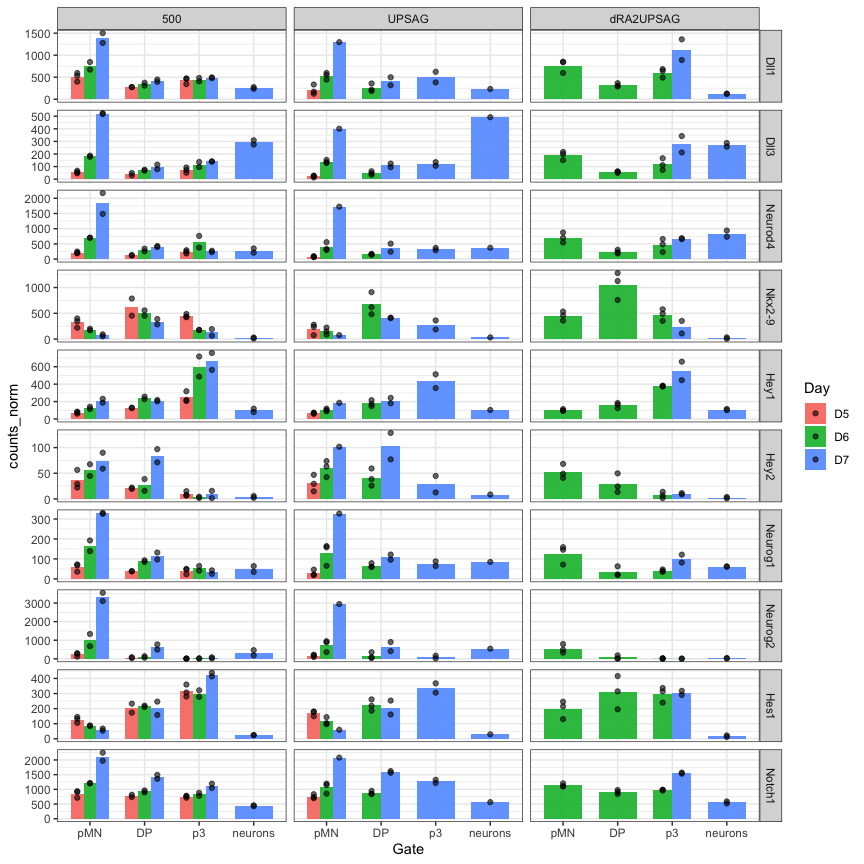
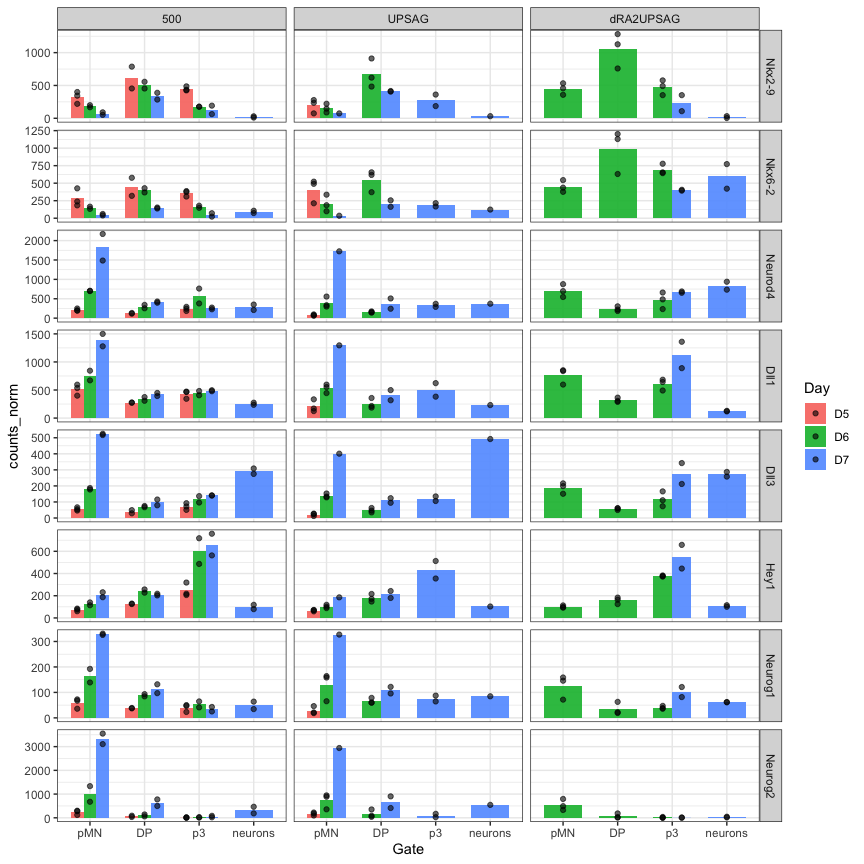
plot genes and diff RNA

diff --git a/r_files/DPCaTSRNA_2_quick_plotgenes.md b/r_files/DPCaTSRNA_2_quick_plotgenes.md
@@ -205,6 +205,8 @@ geneOI <- c("Dll1","Dll3","Neurod4","Nkx2-9",
             "Hey1","Hey2","Neurog1","Neurog2","Hes1","Hes4","Notch1")
 
 
+
+geneOI <- c("Nkx2-9","Nkx6-2","Neurod4","Dll1","Dll3", "Hey1","Neurog1","Neurog2")
 ggplot(dds_counts_plot %>% filter(geneid %in% geneOI & Condition %in% c("500","UPSAG","dRA2UPSAG")) %>% 
         mutate(geneid=factor(geneid, levels=geneOI)), 
        aes(x=Gate,y=counts_norm)) +
@@ -256,12 +258,10 @@ ggplot(dds_counts_plot %>% filter(geneid %in% geneOI & Condition %in% c("500","U
 
 ![](DPCaTSRNA_2_quick_plotgenes_files/figure-gfm/unnamed-chunk-10-3.png)<!-- -->
 
-Genes from Rayon et al
+Temporal program
 
 ``` r
-geneOI <- c("Olig2","Olig1","Nkx2-2","Nkx2-9","Nkx6-1","Nkx6-2","Fabp7",
-            "Sox9","Neurod4","Neurog1","Neurog2","Neurog3")
-
+geneOI <- c("Nr6a1","Lef1","Sox9","Rfx4","Nfib","Atf3","Fos")
 
 ggplot(dds_counts_plot %>% filter(geneid %in% geneOI & Condition %in% c("500","UPSAG","dRA2UPSAG")) %>%
          mutate(geneid=factor(geneid, levels=geneOI)), 
@@ -297,13 +297,11 @@ ggplot(dds_counts_plot %>% filter(geneid %in% geneOI & Condition %in% c("500","U
 
 ![](DPCaTSRNA_2_quick_plotgenes_files/figure-gfm/unnamed-chunk-11-2.png)<!-- -->
 
-Rayon’s “gliogenic score”
-
-FABP7, SOX9, SOX10, PDGFRA, CSPG4, FGFR3, FGFBP3, DBI, SLC1A3, HOPX,
-ALDH1L1
+Genes from Rayon et al
 
 ``` r
-geneOI <- c("Fabp7","Sox9","Sox10","Pdgfra","Cspg4","Fgfr3","Fgfbp3","Dbi","Slc1a3","Hopx","Aldh1l1")
+geneOI <- c("Olig2","Olig1","Nkx2-2","Nkx2-9","Nkx6-1","Nkx6-2","Fabp7",
+            "Sox9","Neurod4","Neurog1","Neurog2","Neurog3")
 
 
 ggplot(dds_counts_plot %>% filter(geneid %in% geneOI & Condition %in% c("500","UPSAG","dRA2UPSAG")) %>%
@@ -340,12 +338,13 @@ ggplot(dds_counts_plot %>% filter(geneid %in% geneOI & Condition %in% c("500","U
 
 ![](DPCaTSRNA_2_quick_plotgenes_files/figure-gfm/unnamed-chunk-12-2.png)<!-- -->
 
-### Wnt genes
+Rayon’s “gliogenic score”
 
-following Agalliu et al
+FABP7, SOX9, SOX10, PDGFRA, CSPG4, FGFR3, FGFBP3, DBI, SLC1A3, HOPX,
+ALDH1L1
 
 ``` r
-geneOI <- c("Wnt4","Wnt5a","Wnt5b","Wnt1","Wnt7a","Wnt7b")
+geneOI <- c("Fabp7","Sox9","Sox10","Pdgfra","Cspg4","Fgfr3","Fgfbp3","Dbi","Slc1a3","Hopx","Aldh1l1")
 
 
 ggplot(dds_counts_plot %>% filter(geneid %in% geneOI & Condition %in% c("500","UPSAG","dRA2UPSAG")) %>%
@@ -382,8 +381,12 @@ ggplot(dds_counts_plot %>% filter(geneid %in% geneOI & Condition %in% c("500","U
 
 ![](DPCaTSRNA_2_quick_plotgenes_files/figure-gfm/unnamed-chunk-13-2.png)<!-- -->
 
+### Wnt genes
+
+following Agalliu et al
+
 ``` r
-geneOI <- c("Nkx2-9","Sp8","Foxa2","Phox2b")
+geneOI <- c("Wnt4","Wnt5a","Wnt5b","Wnt1","Wnt7a","Wnt7b")
 
 
 ggplot(dds_counts_plot %>% filter(geneid %in% geneOI & Condition %in% c("500","UPSAG","dRA2UPSAG")) %>%
@@ -419,6 +422,44 @@ ggplot(dds_counts_plot %>% filter(geneid %in% geneOI & Condition %in% c("500","U
 ```
 
 ![](DPCaTSRNA_2_quick_plotgenes_files/figure-gfm/unnamed-chunk-14-2.png)<!-- -->
+
+``` r
+geneOI <- c("Nkx2-9","Sp8","Foxa2","Phox2b")
+
+
+ggplot(dds_counts_plot %>% filter(geneid %in% geneOI & Condition %in% c("500","UPSAG","dRA2UPSAG")) %>%
+         mutate(geneid=factor(geneid, levels=geneOI)), 
+       aes(x=Day,y=counts_norm)) +
+  stat_summary(aes(fill=Gate),
+    fun = mean, geom="bar", alpha=0.9, width=0.7,position=position_dodge(0.7)) +
+  geom_point(aes(fill=Gate), alpha=0.6, position = position_dodge(width = 0.7),color="black") +
+  #geom_col(position="dodge",aes(fill=DayGate)) +
+  scale_fill_manual(values=color_gates) +
+  scale_color_manual(values=color_gates) +
+  scale_shape_manual(values=shapes4_fill_manual) +
+  facet_grid(geneid ~ Condition, scales = "free_y") +
+  theme_bw()
+```
+
+![](DPCaTSRNA_2_quick_plotgenes_files/figure-gfm/unnamed-chunk-15-1.png)<!-- -->
+
+``` r
+ggplot(dds_counts_plot %>% filter(geneid %in% geneOI & Condition %in% c("500","UPSAG","dRA2UPSAG")) %>%
+         filter(Gate !="neur") %>%
+         mutate(geneid=factor(geneid, levels=geneOI)), 
+       aes(x=Gate,y=counts_norm)) +
+  stat_summary(aes(fill=Day),
+    fun = mean, geom="bar", alpha=0.9, width=0.7,position=position_dodge(0.7)) +
+  geom_point(aes(fill=Day), alpha=0.6, position = position_dodge(width = 0.7),color="black") +
+  #geom_col(position="dodge",aes(fill=DayGate)) +
+  #scale_fill_manual(values=color_gates) +
+  #scale_color_manual(values=color_gates) +
+  scale_shape_manual(values=shapes4_fill_manual) +
+  facet_grid(geneid ~ Condition, scales = "free_y") +
+  theme_bw()
+```
+
+![](DPCaTSRNA_2_quick_plotgenes_files/figure-gfm/unnamed-chunk-15-2.png)<!-- -->
 
 ``` r
 sessionInfo()
